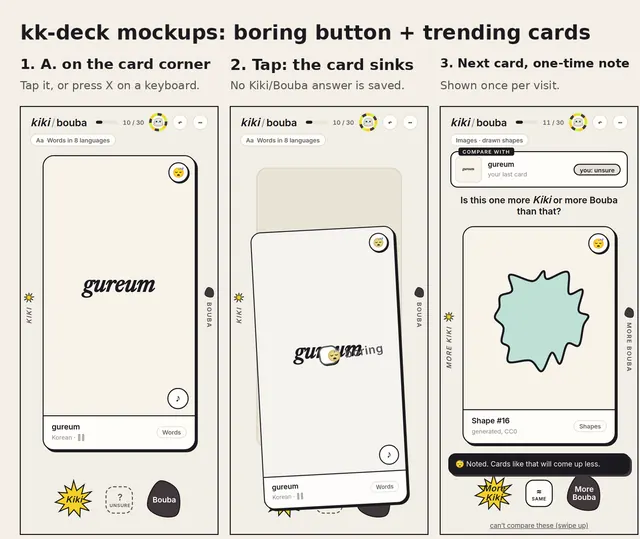
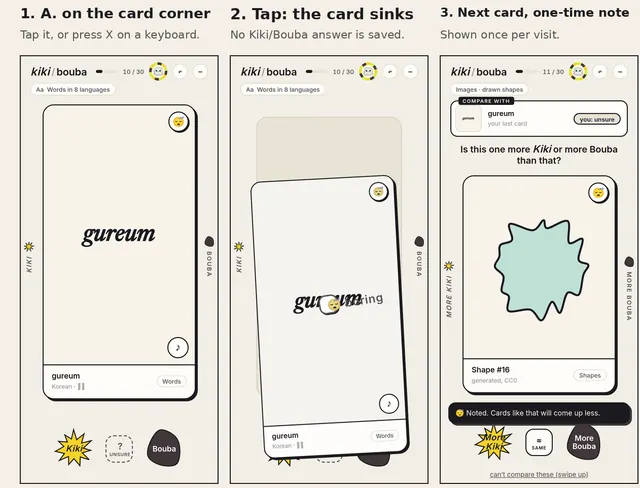
kiki-bouba: crop internal titles off two sheets, plain status chips

diff --git a/static/kiki-bouba/index.html b/static/kiki-bouba/index.html
@@ -76,7 +76,7 @@ dialog button { position: fixed; top: 12px; right: 12px; font: 700 14px var(--ro
 <div class="wrap">
   <header class="top">
     <h1 class="brand"><span class="k">Kiki</span><span class="slash">/</span>Bouba<small>the mood board</small></h1>
-    <p class="intro">Kiki Bouba is a game where friends call things spiky or round. This page keeps every mockup we tried, 47 ideas in 14 rounds, newest first. Each one carries the owner's verdict. Tap a picture to see it big.</p>
+    <p class="intro">Kiki Bouba is a game where friends call things spiky or round. This page keeps every mockup we tried, 47 ideas in 14 rounds, newest first. Each one carries our verdict. Tap a picture to see it big.</p>
     <ul class="legend" aria-label="Verdicts">
       <li><span class="chip pick">The pick</span></li><li><span class="chip loved">Loved</span></li><li><span class="chip built">Built</span></li><li><span class="chip parked">Parked</span></li><li><span class="chip pending">No verdict yet</span></li><li><span class="chip no">Dropped</span></li>
     </ul>
@@ -87,27 +87,27 @@ dialog button { position: fixed; top: 12px; right: 12px; font: 700 14px var(--ro
   <div class="rhead"><h2>Reply chain, built</h2><time datetime="2026-11-16">Nov 16</time></div>
   <p class="rline">Version 1.2 as built: Chains is the first tab and the screen the app opens on.</p>
   <article class="idea">
-  <header><h3>Chains list</h3><span class="chip built">Built, TestFlight 1.2 (25)</span></header>
+  <header><h3>Chains list</h3><span class="chip built">Built, in testing</span></header>
   <p>Every chain you&#x27;re in. The one waiting on you swings on top.</p>
   <div class="strip"><a class="shot" href="img/built12-1-1.webp" data-w="780" data-h="1688"><img src="img/built12-1-1-t.webp" width="640" height="1385" alt="Chains list" loading="lazy" decoding="async"></a></div>
 </article><article class="idea">
-  <header><h3>Pass it on</h3><span class="chip built">Built, TestFlight 1.2 (25)</span></header>
+  <header><h3>Pass it on</h3><span class="chip built">Built, in testing</span></header>
   <p>Hang a quote, then pick the friend who adds link 1. All friends can after that.</p>
   <div class="strip"><a class="shot" href="img/built12-2-1.webp" data-w="780" data-h="1688"><img src="img/built12-2-1-t.webp" width="640" height="1385" alt="Pass it on" loading="lazy" decoding="async"></a></div>
 </article><article class="idea">
-  <header><h3>A chain on a string</h3><span class="chip built">Built, TestFlight 1.2 (25)</span></header>
+  <header><h3>A chain on a string</h3><span class="chip built">Built, in testing</span></header>
   <p>Each link is a take on the one above, called Kiki or Bouba.</p>
   <div class="strip"><a class="shot" href="img/built12-3-1.webp" data-w="780" data-h="1688"><img src="img/built12-3-1-t.webp" width="640" height="1385" alt="A chain on a string" loading="lazy" decoding="async"></a></div>
 </article><article class="idea">
-  <header><h3>Scratch foil</h3><span class="chip built">Built, TestFlight 1.2 (25)</span></header>
+  <header><h3>Scratch foil</h3><span class="chip built">Built, in testing</span></header>
   <p>A friend&#x27;s call on your take hides under foil until you scratch it.</p>
   <div class="strip"><a class="shot" href="img/built12-4-1.webp" data-w="780" data-h="1688"><img src="img/built12-4-1-t.webp" width="640" height="1385" alt="Scratch foil" loading="lazy" decoding="async"></a></div>
 </article><article class="idea">
-  <header><h3>Inbox</h3><span class="chip built">Built, TestFlight 1.2 (25)</span></header>
+  <header><h3>Inbox</h3><span class="chip built">Built, in testing</span></header>
   <p>A note for each friend who added on or called your take.</p>
   <div class="strip"><a class="shot" href="img/built12-5-1.webp" data-w="780" data-h="1688"><img src="img/built12-5-1-t.webp" width="640" height="1385" alt="Inbox" loading="lazy" decoding="async"></a></div>
 </article><article class="idea">
-  <header><h3>You tab</h3><span class="chip built">Built, TestFlight 1.2 (25)</span></header>
+  <header><h3>You tab</h3><span class="chip built">Built, in testing</span></header>
   <p>The chains you&#x27;re in, and the takes friends called.</p>
   <div class="strip"><a class="shot" href="img/built12-6-1.webp" data-w="780" data-h="1688"><img src="img/built12-6-1-t.webp" width="640" height="1385" alt="You tab" loading="lazy" decoding="async"></a></div>
 </article>
@@ -116,27 +116,27 @@ dialog button { position: fixed; top: 12px; right: 12px; font: 700 14px var(--ro
   <div class="rhead"><h2>Reply chain, the full 1.2 flow</h2><time datetime="2026-11-16">Nov 16</time></div>
   <p class="rline">The first reply chain, worked out screen by screen for version 1.2.</p>
   <article class="idea">
-  <header><h3>Chains tab</h3><span class="chip pick">Owner pick, building as 1.2</span></header>
+  <header><h3>Chains tab</h3><span class="chip pick">Picked, being built</span></header>
   <p>Every chain you&#x27;re in, on one string. The chain that waits on you sits on top.</p>
   <div class="strip"><a class="shot" href="img/chain3-1-1.webp" data-w="1400" data-h="1599"><img src="img/chain3-1-1-t.webp" width="640" height="731" alt="Chains tab" loading="lazy" decoding="async"></a></div>
 </article><article class="idea">
-  <header><h3>Start a chain</h3><span class="chip pick">Owner pick, building as 1.2</span></header>
+  <header><h3>Start a chain</h3><span class="chip pick">Picked, being built</span></header>
   <p>Hang a quote, photo or sound, then pick the friend who adds link 2.</p>
   <div class="strip"><a class="shot" href="img/chain3-2-1.webp" data-w="1400" data-h="1599"><img src="img/chain3-2-1-t.webp" width="640" height="731" alt="Start a chain" loading="lazy" decoding="async"></a></div>
 </article><article class="idea">
-  <header><h3>Your take, rated</h3><span class="chip pick">Owner pick, building as 1.2</span></header>
+  <header><h3>Your take, rated</h3><span class="chip pick">Picked, being built</span></header>
   <p>A friend&#x27;s call on your take comes under foil. Scratch to see it.</p>
   <div class="strip"><a class="shot" href="img/chain3-3-1.webp" data-w="1400" data-h="1599"><img src="img/chain3-3-1-t.webp" width="640" height="731" alt="Your take, rated" loading="lazy" decoding="async"></a></div>
 </article><article class="idea">
-  <header><h3>Photo and sound links</h3><span class="chip pick">Owner pick, building as 1.2</span></header>
+  <header><h3>Photo and sound links</h3><span class="chip pick">Picked, being built</span></header>
   <p>A link can be a snap or a 6-second hum, not just words.</p>
   <div class="strip"><a class="shot" href="img/chain3-4-1.webp" data-w="1400" data-h="1599"><img src="img/chain3-4-1-t.webp" width="640" height="731" alt="Photo and sound links" loading="lazy" decoding="async"></a></div>
 </article><article class="idea">
-  <header><h3>Inbox and pushes</h3><span class="chip pick">Owner pick, building as 1.2</span></header>
+  <header><h3>Inbox and pushes</h3><span class="chip pick">Picked, being built</span></header>
   <p>Each nudge names a friend and one thing to do. The push hides the call.</p>
   <div class="strip"><a class="shot" href="img/chain3-5-1.webp" data-w="1400" data-h="1599"><img src="img/chain3-5-1-t.webp" width="640" height="731" alt="Inbox and pushes" loading="lazy" decoding="async"></a></div>
 </article><article class="idea">
-  <header><h3>You tab</h3><span class="chip pick">Owner pick, building as 1.2</span></header>
+  <header><h3>You tab</h3><span class="chip pick">Picked, being built</span></header>
   <p>Your chains, and a Kiki/Bouba lean your friends made for you.</p>
   <div class="strip"><a class="shot" href="img/chain3-6-1.webp" data-w="1400" data-h="1599"><img src="img/chain3-6-1-t.webp" width="640" height="731" alt="You tab" loading="lazy" decoding="async"></a></div>
 </article>
@@ -229,7 +229,7 @@ dialog button { position: fixed; top: 12px; right: 12px; font: 700 14px var(--ro
   <div class="rhead"><h2>App Store</h2><time datetime="2026-11-11">Nov 11</time></div>
   <p class="rline">The store listing shots, and a way to hide players and report cards.</p>
   <article class="idea">
-  <header><h3>Hide a player</h3><span class="chip built">Built in build 11</span></header>
+  <header><h3>Hide a player</h3><span class="chip built">Built</span></header>
   <p>Hide someone&#x27;s cards, read the rules, report a card. Needed for App Store review.</p>
   <div class="strip"><a class="shot" href="img/store-1-1.webp" data-w="780" data-h="1688"><img src="img/store-1-1-t.webp" width="640" height="1385" alt="Hide a player, screen 1" loading="lazy" decoding="async"></a><a class="shot" href="img/store-1-2.webp" data-w="780" data-h="1688"><img src="img/store-1-2-t.webp" width="640" height="1385" alt="Hide a player, screen 2" loading="lazy" decoding="async"></a><a class="shot" href="img/store-1-3.webp" data-w="780" data-h="1688"><img src="img/store-1-3-t.webp" width="640" height="1385" alt="Hide a player, screen 3" loading="lazy" decoding="async"></a><a class="shot" href="img/store-1-4.webp" data-w="780" data-h="1688"><img src="img/store-1-4-t.webp" width="640" height="1385" alt="Hide a player, screen 4" loading="lazy" decoding="async"></a><a class="shot" href="img/store-1-5.webp" data-w="780" data-h="1688"><img src="img/store-1-5-t.webp" width="640" height="1385" alt="Hide a player, screen 5" loading="lazy" decoding="async"></a></div>
 </article><article class="idea">
@@ -248,11 +248,11 @@ dialog button { position: fixed; top: 12px; right: 12px; font: 700 14px var(--ro
 </article><article class="idea">
   <header><h3>Boring button and trending</h3><span class="chip built">OK&#x27;d and built</span></header>
   <p>Mark a card boring and see it less. Top trending memes arrive as cards each day.</p>
-  <div class="strip"><a class="shot" href="img/ship-2-1.webp" data-w="1262" data-h="1063"><img src="img/ship-2-1-t.webp" width="640" height="539" alt="Boring button and trending, screen 1" loading="lazy" decoding="async"></a><a class="shot" href="img/ship-2-2.webp" data-w="1400" data-h="963"><img src="img/ship-2-2-t.webp" width="640" height="440" alt="Boring button and trending, screen 2" loading="lazy" decoding="async"></a></div>
+  <div class="strip"><a class="shot" href="img/ship-2-1.webp" data-w="1262" data-h="963"><img src="img/ship-2-1-t.webp" width="640" height="488" alt="Boring button and trending, screen 1" loading="lazy" decoding="async"></a><a class="shot" href="img/ship-2-2.webp" data-w="1400" data-h="963"><img src="img/ship-2-2-t.webp" width="640" height="440" alt="Boring button and trending, screen 2" loading="lazy" decoding="async"></a></div>
 </article><article class="idea">
   <header><h3>Home, menu and swipe feel</h3><span class="chip built">OK&#x27;d and built</span></header>
   <p>A home screen, menu, feedback and help, and a card that flies off at your swipe speed.</p>
-  <div class="strip one"><a class="shot" href="img/ship-3-1.webp" data-w="1400" data-h="992"><img src="img/ship-3-1-t.webp" width="640" height="453" alt="Home, menu and swipe feel" loading="lazy" decoding="async"></a></div>
+  <div class="strip one"><a class="shot" href="img/ship-3-1.webp" data-w="1400" data-h="950"><img src="img/ship-3-1-t.webp" width="640" height="434" alt="Home, menu and swipe feel" loading="lazy" decoding="async"></a></div>
 </article>
 </section>
 <section class="round" id="critters">
